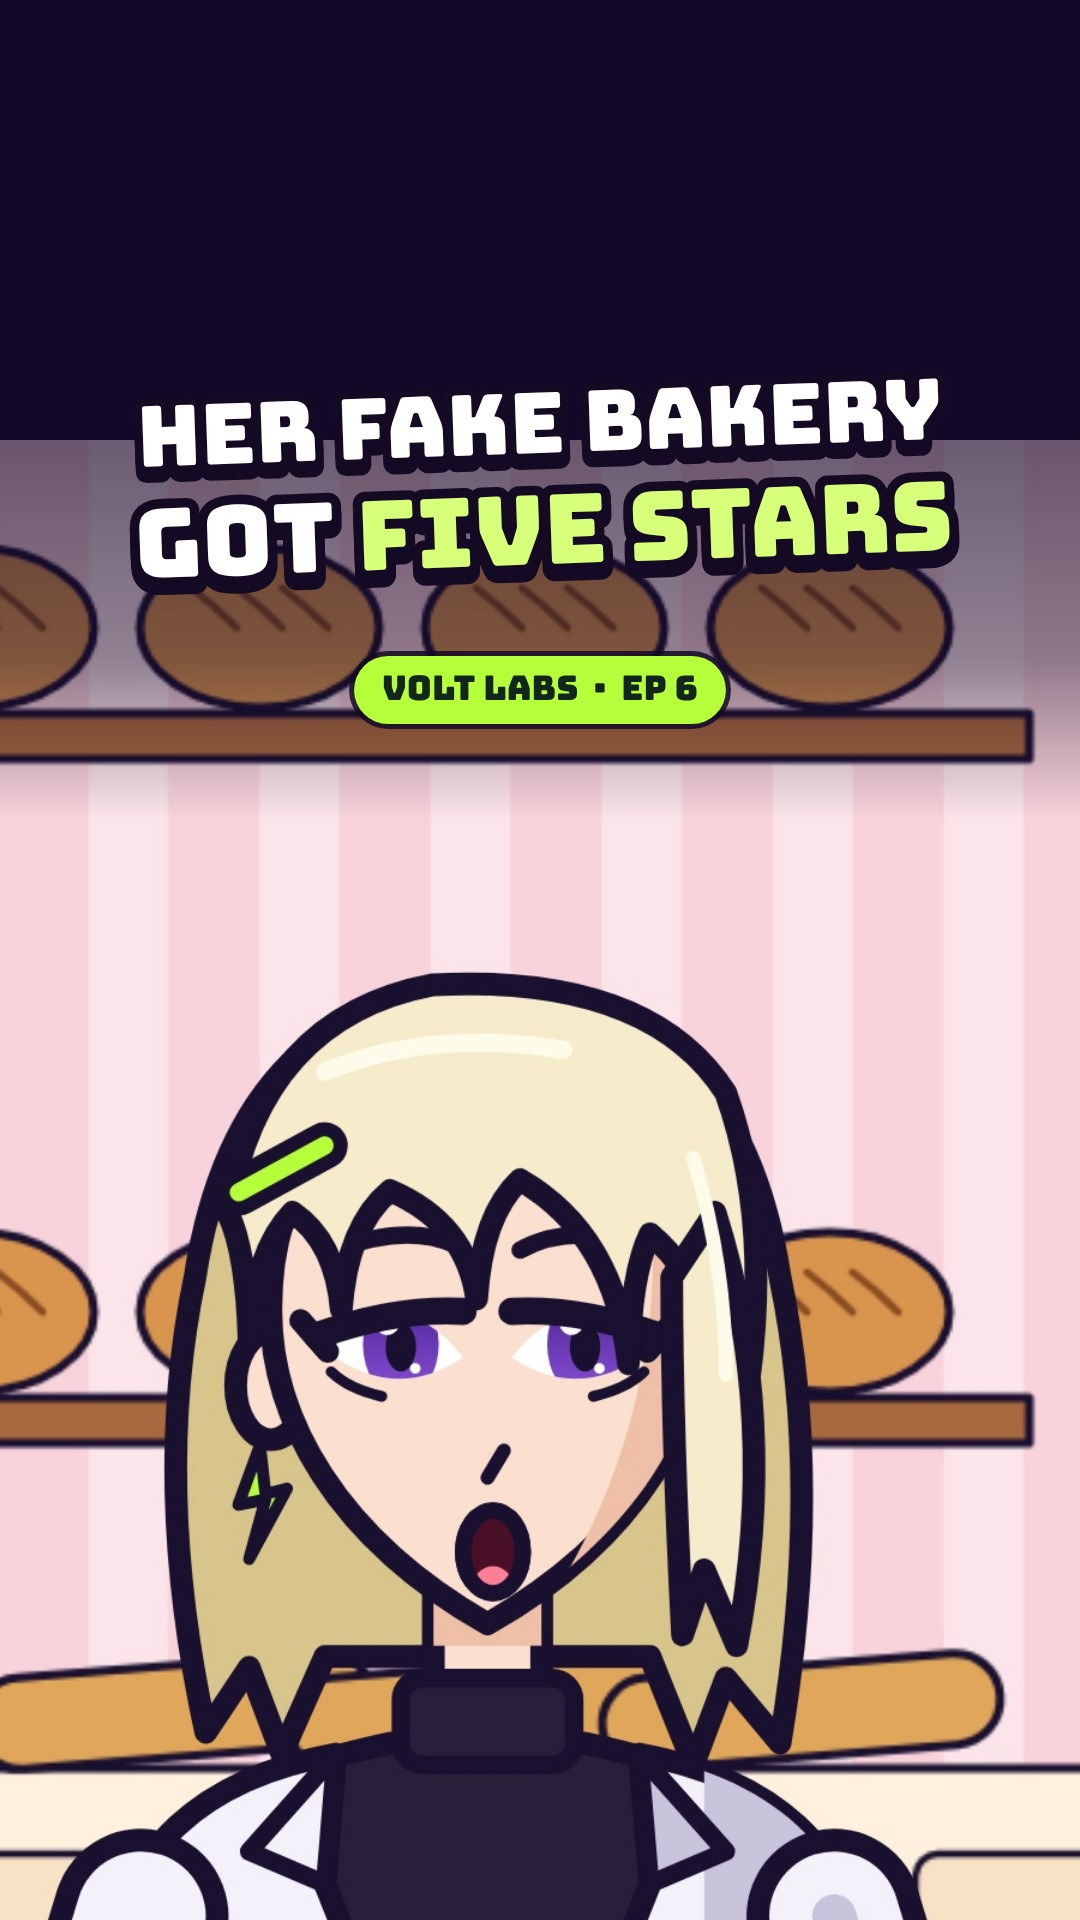
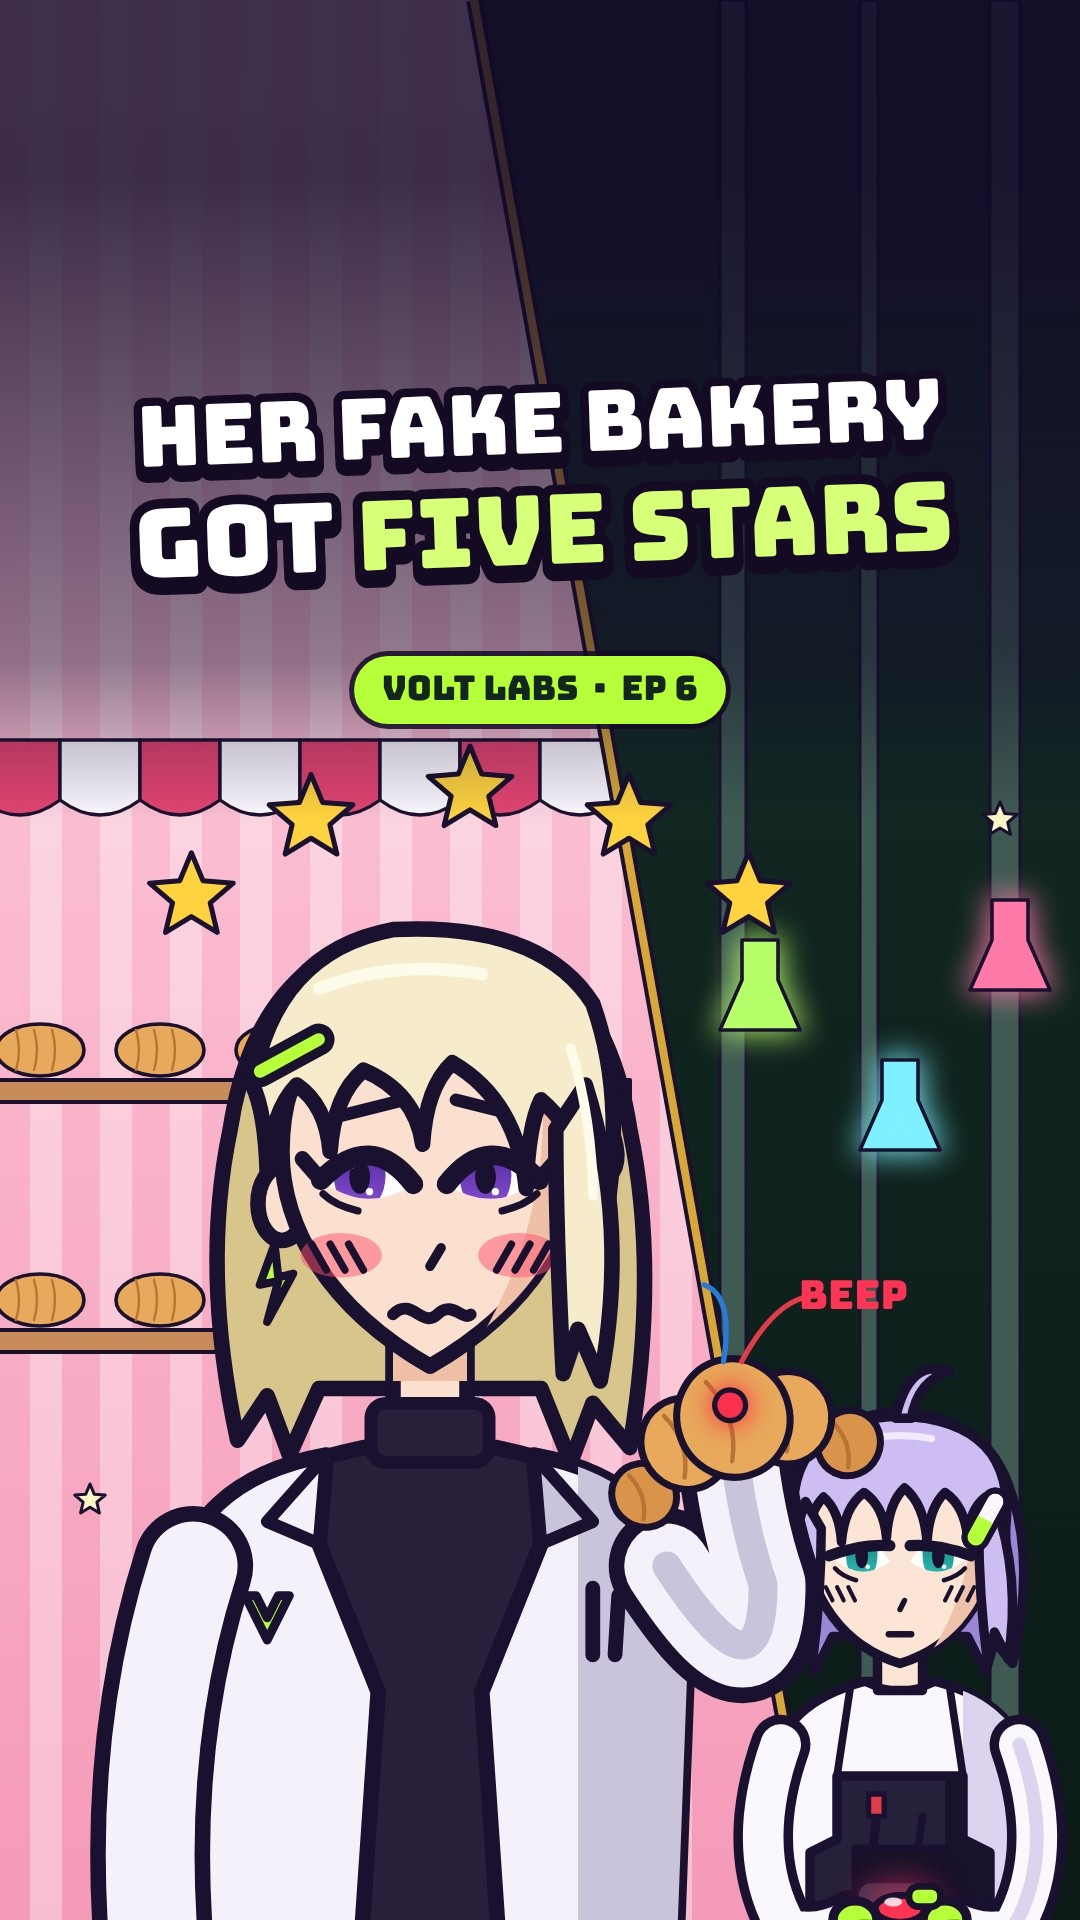
Drawn covers: Volt Labs 6 (Vera with the beeping croissant on the half-flipped bakery wall) and Void Mart 7 (MAGS in Pip's face over the 30% tip screen)
Claude-Session: https://claude.ai/code/session_01LkDBK4iy6rfiAGrGtNUTyR

diff --git a/channel/brand/covers/vl06-lab-inspection.js b/channel/brand/covers/vl06-lab-inspection.js
@@ -1,0 +1,45 @@
+// Volt Labs 6 "Lab Inspection": HER FAKE BAKERY GOT FIVE STARS. The wall is caught mid-flip: pink bakery on the left, the
+// lab on the right. Vera, huge, flustered, holds up the beeping detonator croissant with a forced smile; five gold stars over
+// her head; Cleo, bottom right, deadpan, thumb on the big red button.
+COVER['vl06-lab-inspection'] = g => {
+  // the wall: bakery (left) and lab (right), split on a slant where it is flipping
+  const seam = (y) => 600 + (y - 700) * .18;
+  g.save(); g.beginPath(); g.moveTo(0, 0); g.lineTo(seam(0), 0); g.lineTo(seam(H), H); g.lineTo(0, H); g.closePath(); g.clip();
+  const pk = g.createLinearGradient(0, 0, 0, H); pk.addColorStop(0, '#ffd6e4'); pk.addColorStop(1, '#f59ab8'); g.fillStyle = pk; g.fillRect(0, 0, W, H);
+  for (let x = -40; x < 700; x += 70) { g.fillStyle = 'rgba(255,255,255,.35)'; g.fillRect(x, 0, 32, H); }
+  // awning and shelves of bread
+  for (let i = 0; i < 9; i++) tShape(g, i % 2 ? '#fbf7ff' : '#e2456f', gg => { gg.moveTo(i * 80 - 20, 740); gg.lineTo(i * 80 + 60, 740); gg.lineTo(i * 80 + 60, 800); gg.quadraticCurveTo(i * 80 + 20, 830, i * 80 - 20, 800); gg.closePath(); }, 3.4);
+  for (const sy of [1080, 1330]) {
+    tShape(g, '#c98b5a', gg => gg.rect(-10, sy, 640, 22), 4);
+    for (let i = 0; i < 5; i++) { const bx = 40 + i * 120; g.save(); g.translate(bx, sy - 30); tShape(g, '#e8a95c', gg => gg.ellipse(0, 0, 44, 26, 0, 0, 6.2832), 3.6); for (let k = -1; k <= 1; k++) tCurve(g, k * 18 - 6, -20, k * 18, 0, k * 18 - 6, 20, 2.4, '#b87434'); g.restore(); }
+  }
+  g.restore();
+  g.save(); g.beginPath(); g.moveTo(seam(0), 0); g.lineTo(W, 0); g.lineTo(W, H); g.lineTo(seam(H), H); g.closePath(); g.clip();
+  const lb = g.createLinearGradient(0, 0, 0, H); lb.addColorStop(0, '#16302a'); lb.addColorStop(1, '#0b1a16'); g.fillStyle = lb; g.fillRect(0, 0, W, H);
+  for (const [px, w] of [[720, 26], [860, 18], [990, 30]]) tShape(g, '#3e5a52', gg => gg.rect(px, 0, w, H), 3);
+  for (const [bx, by, col] of [[760, 1000, '#b7ff6a'], [900, 1120, '#7ef0ff'], [1010, 960, '#ff7aa8']]) {
+    g.save(); g.shadowColor = col; g.shadowBlur = 30; tShape(g, col, gg => { gg.moveTo(bx - 18, by - 60); gg.lineTo(bx + 18, by - 60); gg.lineTo(bx + 18, by - 20); gg.lineTo(bx + 40, by + 30); gg.lineTo(bx - 40, by + 30); gg.lineTo(bx - 18, by - 20); gg.closePath(); }, 3.6); g.restore();
+  }
+  g.restore();
+  g.save(); g.lineWidth = 16; g.strokeStyle = TOON.ink; g.beginPath(); g.moveTo(seam(0), 0); g.lineTo(seam(H), H); g.stroke(); g.lineWidth = 8; g.strokeStyle = '#d9a63a'; g.stroke(); g.restore();
+  // five gold stars over her head
+  for (let i = 0; i < 5; i++) { const a = Math.PI * (1.18 + i * .16); drawStar(g, 470 + Math.cos(a) * 330, 1020 + Math.sin(a) * 230, 44, '#ffd23f', 5); }
+  // Cleo, bottom right, deadpan, thumb on the button
+  drawCleo2(g, 900, 2010, 225, { expr: 'deadpan', press: 1 });
+  // Vera, huge, flustered, holding the croissant up by her face
+  const s = 3.7, vx = 430, base = 2010;
+  drawVera2(g, vx, base, s * 100, { expr: 'fluster', reachR: { x: 78, y: -150 } });
+  const cx = vx + 82 * s, cy = base - 160 * s;
+  g.save(); g.translate(cx, cy); g.rotate(-.25); g.scale(2.2, 2.2);
+  // a croissant: five segments on a curve, the middle one biggest, the horns curling down
+  for (const i of [-2, 2, -1, 1, 0]) {
+    const x = i * 24, y = Math.abs(i) * Math.abs(i) * 6, r = [15, 21, 27][2 - Math.abs(i)];
+    tShape(g, Math.abs(i) === 2 ? '#d9934a' : '#e8a95c', gg => gg.ellipse(x, y, r * .95, r, i * .35, 0, 6.2832), 3.2);
+    tCurve(g, x - r * .3, y - r * .7, x + r * .1, y, x - r * .2, y + r * .7, 2, '#b87434');
+  }
+  tCurve(g, 10, -24, 34, -50, 52, -44, 2.4, '#e23b4a'); tCurve(g, 2, -26, 14, -54, 2, -62, 2.4, '#2a7bd8');
+  g.save(); g.shadowColor = '#ff2a3a'; g.shadowBlur = 24; tEllipse(g, 0, -6, 7, 7, '#ff3355', 2.4); g.restore();
+  g.restore();
+  tText(g, 'BEEP', cx + 120, cy - 120, 40, '#ff3355', '"Bungee"', 'center', 400);
+  coverSparkles(g, [[1000, 820, 18], [90, 1500, 16]]);
+};

diff --git a/channel/brand/covers/vm07-tip-jar.js b/channel/brand/covers/vm07-tip-jar.js
@@ -1,0 +1,34 @@
+// Void Mart 7 "Tip Jar": THE TIP SCREEN IS WATCHING. MAGS has come down on its pole right into Pip's face, eye blazing; Pip,
+// huge, sweating, holds the tip screen with 30% lit; the tip jar with its comet and a tooth glows on the counter.
+COVER['vm07-tip-jar'] = g => {
+  coverBurst(g, 780, 900, ['#ffd0d4', '#8a3fd8', '#1e1044'], 18, .05);
+  // the pole from the ceiling and MAGS, close and huge, top right
+  tShape(g, '#c1c6d8', gg => gg.rect(840, 640, 40, 170), 4);
+  drawMags(g, 860, 800, 380, { glow: 90, talk: 1 });
+  // a red scan cone from the eye onto Pip
+  g.save(); g.globalAlpha = .18; g.fillStyle = '#ff2a3a'; g.beginPath(); g.moveTo(880, 1005); g.lineTo(150, 1500); g.lineTo(560, 1700); g.closePath(); g.fill(); g.restore();
+  // the tip jar on the counter, bottom left, with the comet inside
+  g.save(); g.translate(150, 1660);
+  tShape(g, 'rgba(220,240,255,.55)', gg => gg.roundRect(-80, -150, 160, 190, 26), 4.4);
+  g.save(); g.shadowColor = '#7ef0ff'; g.shadowBlur = 40; tEllipse(g, 0, -40, 34, 30, '#bff6ff', 3); g.restore();
+  tCurve(g, 26, -56, 70, -100, 90, -140, 8, '#7ef0ff');
+  tShape(g, '#fbf7ff', gg => gg.roundRect(-20, 0, 26, 30, 8), 3);
+  tShape(g, '#fbf7ff', gg => gg.roundRect(-60, -190, 120, 44, 8), 3.4); tText(g, 'TIPS', 0, -168, 28, TOON.ink, '"Bungee"', 'center', 400);
+  g.restore();
+  // Pip, huge, worried and sweating, holding the tip screen
+  const s = 3.6, px = 520, base = 1990;
+  drawPip2(g, px, base, s * 100, { expr: 'worried', hold: true, sweat: true });
+  g.save(); g.translate(px, base - 104 * s + 30); g.rotate(.04);
+  tShape(g, '#2a2440', gg => gg.roundRect(-170, -110, 340, 200, 22), 5);
+  tShape(g, '#0e0b1c', gg => gg.roundRect(-150, -92, 300, 164, 14), 3);
+  tText(g, 'ADD A TIP?', 0, -66, 24, '#d9ccff', '"Bungee"', 'center', 400);
+  [['15%', -100, false], ['20%', 0, false], ['30%', 100, true]].forEach(([t, x, hot]) => {
+    if (hot) { g.save(); g.shadowColor = '#ffd23f'; g.shadowBlur = 30; }
+    tShape(g, hot ? '#ffd23f' : '#4a3e72', gg => gg.roundRect(x - 44, -36, 88, 70, 12), 3.4);
+    if (hot) g.restore();
+    tText(g, t, x, 0, 30, hot ? TOON.ink : '#b9a6ff', '"Bungee"', 'center', 400);
+  });
+  tText(g, 'no tip', 0, 54, 15, '#5c577f', '"Fredoka"', 'center', 600);
+  g.restore();
+  coverSparkles(g, [[120, 860, 20], [1000, 1300, 14]]);
+};
